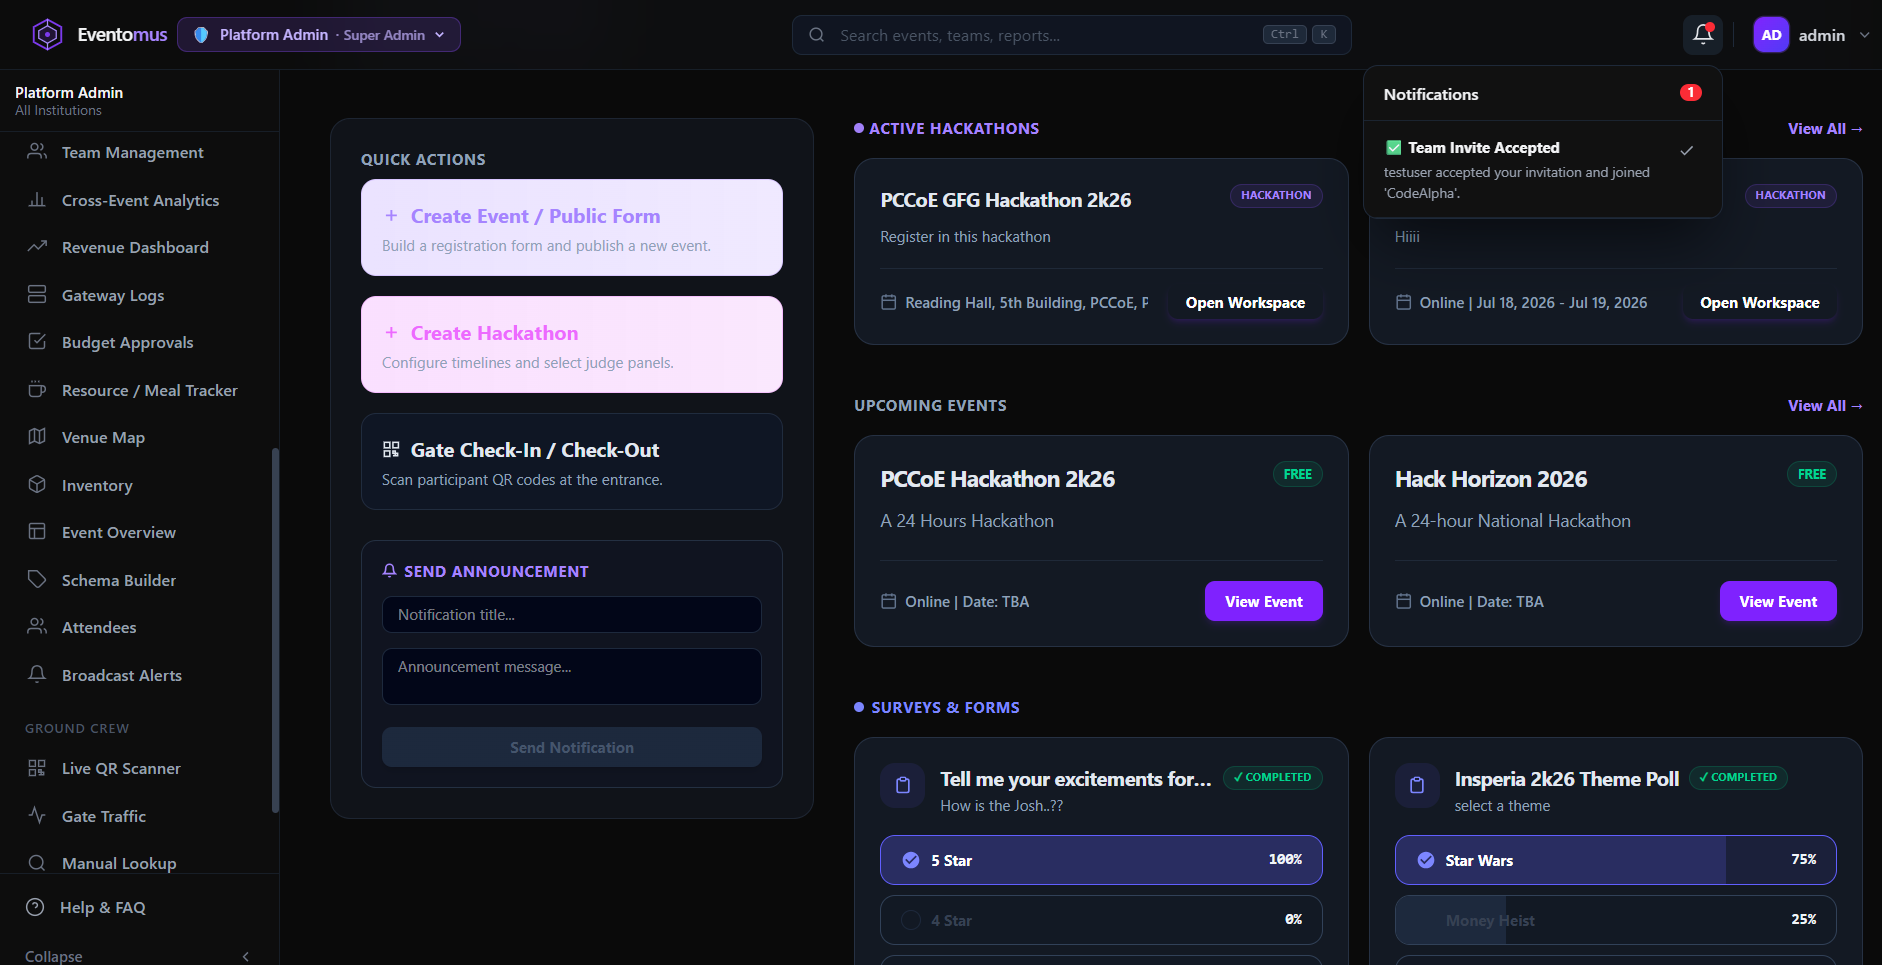
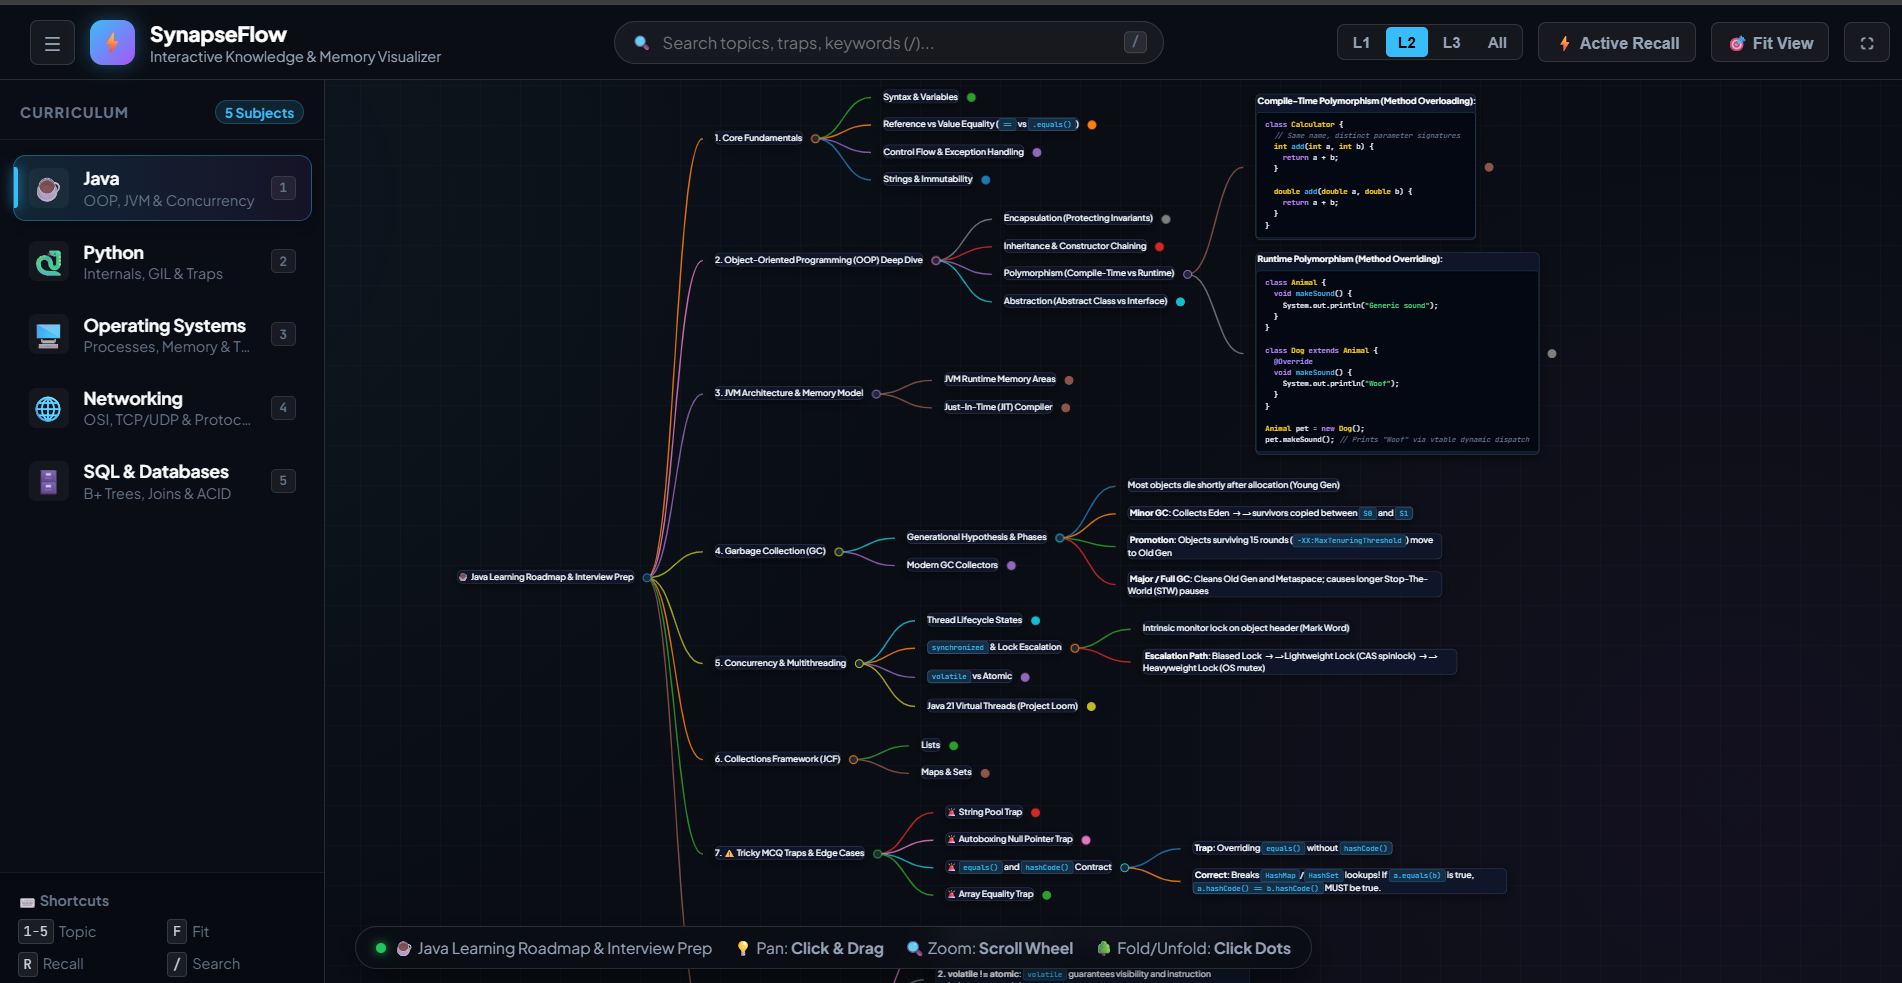
feat: add portfolio index page and new project images

diff --git a/public/index.html b/public/index.html
@@ -320,7 +320,7 @@
             <div class="projects-grid">
                 <div class="project-card">
                     <div class="project-image">
-                        <img src="Images/project6.png" alt="Eventomus — A Multi-tenant Campus Event Management platform"
+                        <img src="Images/project7.png" alt="Eventomus — A Multi-tenant Campus Event Management platform"
                             loading="lazy" />
                         <div class="featured-tag">Featured · Django</div>
                     </div>
@@ -342,6 +342,40 @@
                         <div class="project-links">
                             <a href="https://github.com/KaushikBarnwal/" target="_blank" class="project-link">
                                 <i class="bx bx-link-external"></i> Github (Ongoing)
+                            </a>
+                        </div>
+                    </div>
+                </div>
+
+                <div class="project-card">
+                    <div class="project-image">
+                        <img src="Images/project6.png" alt="SynapseFlow — Interactive Mindmap & Active Recall Engine"
+                            loading="lazy" />
+                        <div class="featured-tag">Featured · D3.js</div>
+                    </div>
+                    <div class="project-content">
+                        <h3 class="project-title">SynapseFlow</h3>
+                        <p class="project-description">
+                            An interactive visual knowledge engine and active recall system that transforms
+                            dense computer science fundamentals (Python, Java, OS, Networks, SQL) into organic,
+                            expandable mindmaps with real-time search, custom neon syntax highlighting, and an
+                            offline-ready zero-CORS architecture.
+                        </p>
+                        <div class="project-tech">
+                            <span class="tech-tag">D3.js</span>
+                            <span class="tech-tag">Markmap</span>
+                            <span class="tech-tag">HTML</span>
+                            <span class="tech-tag">CSS</span>
+                            <span class="tech-tag">JavaScript</span>
+                        </div>
+                        <div class="project-links">
+                            <a href="https://kaushikbarnwal.github.io/SynapseFlow/" target="_blank"
+                                class="project-link">
+                                <i class="bx bx-link-external"></i> Live Demo
+                            </a>
+                            <a href="https://github.com/KaushikBarnwal/SynapseFlow" target="_blank"
+                                class="project-link project-link-secondary">
+                                <i class="bx bxl-github"></i> Code
                             </a>
                         </div>
                     </div>
